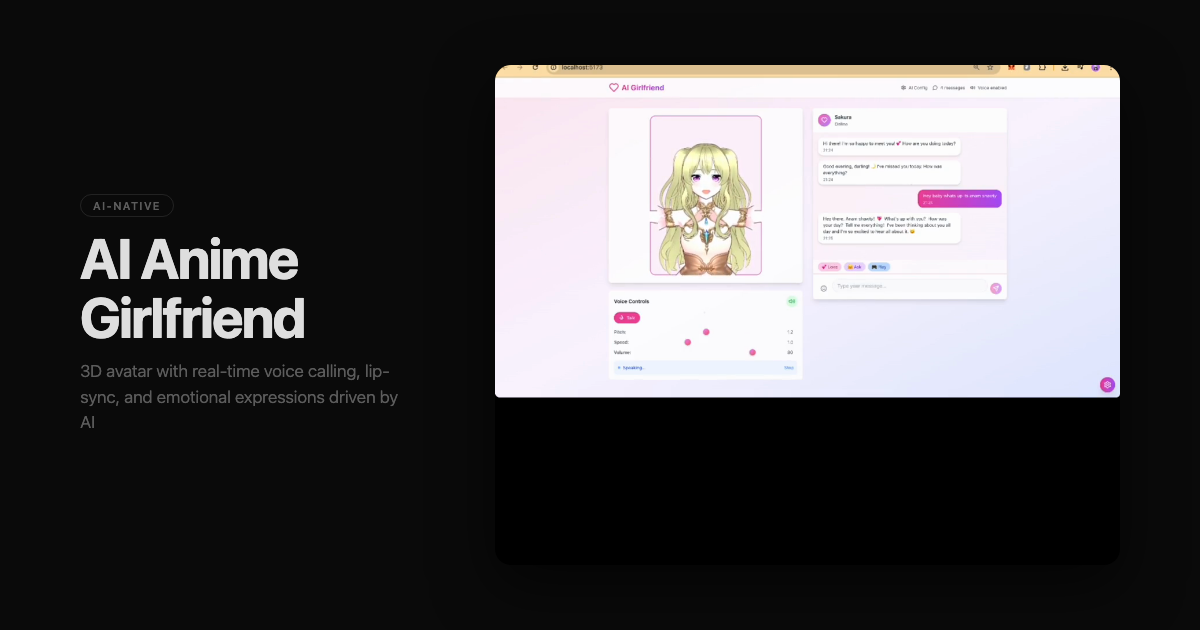
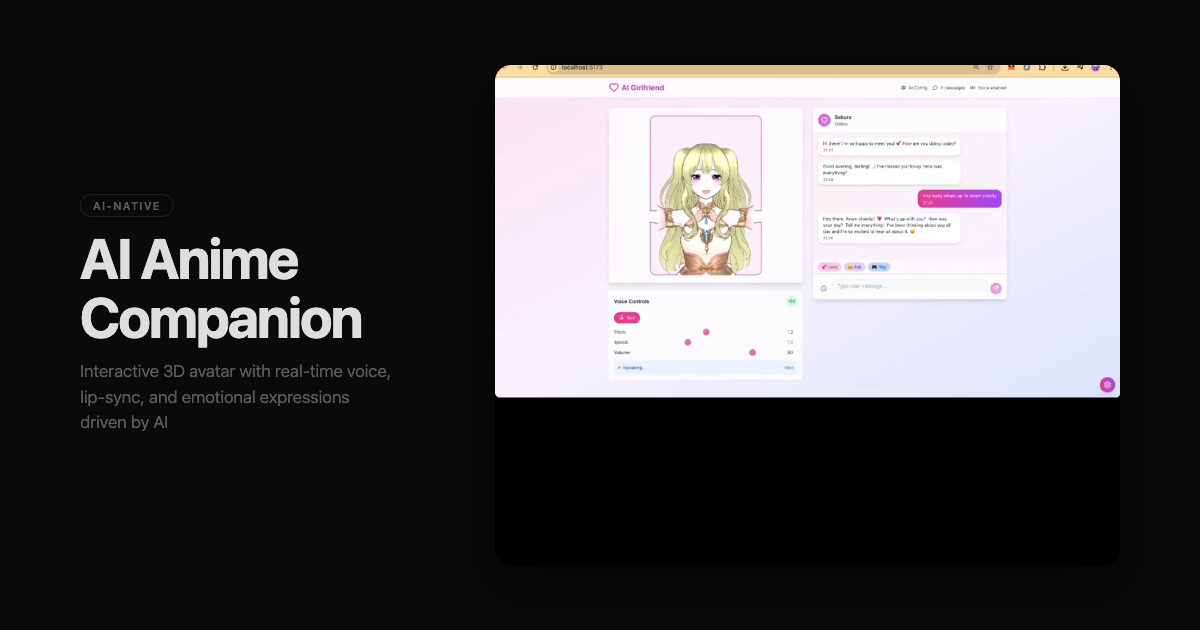
add Formspree contact form, rebrand AI Anime Companion, portrait video fixes
- Add Formspree contact form to contact page (above social links)
- Rebrand "AI Anime Girlfriend" → "AI Anime Companion" (title, description, purpose)
- Add portrait video support for AI Anime Companion detail page
- Update category to web-app, purpose to Technical Exploration

Changed region(s): [[0.0617, 0.573, 0.3392, 0.6937], [0.0617, 0.4524, 0.3083, 0.5429]]

diff --git a/src/app/contact/page.tsx b/src/app/contact/page.tsx
@@ -1,9 +1,12 @@
 "use client";
 
 import { motion } from "framer-motion";
+import { useForm, ValidationError } from "@formspree/react";
 import { personal } from "@/data/personal";
 
 export default function ContactPage() {
+  const [state, handleSubmit] = useForm("xeervzrq");
+
   return (
     <div
       style={{ paddingTop: "100px", paddingBottom: "var(--spacing-section)" }}
@@ -96,6 +99,172 @@ export default function ContactPage() {
               {personal.email}
             </span>
           </a>
+
+          {/* ─── Contact Form ─── */}
+          <motion.div
+            initial={{ opacity: 0, y: 20 }}
+            animate={{ opacity: 1, y: 0 }}
+            transition={{ duration: 0.5, delay: 0.2 }}
+            style={{
+              padding: "28px 32px",
+              borderRadius: "16px",
+              background: "rgba(255,255,255,0.03)",
+              border: "1px solid rgba(255,255,255,0.08)",
+            }}
+          >
+            <span
+              style={{
+                display: "block",
+                fontSize: "11px",
+                fontWeight: 500,
+                letterSpacing: "0.12em",
+                textTransform: "uppercase",
+                color: "rgba(245,245,245,0.35)",
+                marginBottom: "20px",
+              }}
+            >
+              Send a message
+            </span>
+
+            {state.succeeded ? (
+              <p
+                style={{
+                  fontSize: "15px",
+                  fontWeight: 400,
+                  color: "rgba(245,245,245,0.7)",
+                  lineHeight: 1.6,
+                }}
+              >
+                Thanks for reaching out! I&apos;ll get back to you soon.
+              </p>
+            ) : (
+              <form
+                onSubmit={handleSubmit}
+                style={{
+                  display: "flex",
+                  flexDirection: "column",
+                  gap: "16px",
+                }}
+              >
+                <div>
+                  <label
+                    htmlFor="email"
+                    style={{
+                      display: "block",
+                      fontSize: "12px",
+                      fontWeight: 400,
+                      color: "rgba(245,245,245,0.35)",
+                      marginBottom: "6px",
+                    }}
+                  >
+                    Email
+                  </label>
+                  <input
+                    id="email"
+                    type="email"
+                    name="email"
+                    required
+                    style={{
+                      width: "100%",
+                      padding: "12px 16px",
+                      borderRadius: "10px",
+                      background: "rgba(255,255,255,0.04)",
+                      border: "1px solid rgba(255,255,255,0.08)",
+                      color: "rgba(245,245,245,0.8)",
+                      fontSize: "14px",
+                      fontWeight: 300,
+                      outline: "none",
+                      transition: "border-color 0.2s",
+                    }}
+                    onFocus={(e) =>
+                      (e.currentTarget.style.borderColor =
+                        "rgba(255,255,255,0.2)")
+                    }
+                    onBlur={(e) =>
+                      (e.currentTarget.style.borderColor =
+                        "rgba(255,255,255,0.08)")
+                    }
+                    placeholder="your@email.com"
+                  />
+                  <ValidationError
+                    prefix="Email"
+                    field="email"
+                    errors={state.errors}
+                  />
+                </div>
+
+                <div>
+                  <label
+                    htmlFor="message"
+                    style={{
+                      display: "block",
+                      fontSize: "12px",
+                      fontWeight: 400,
+                      color: "rgba(245,245,245,0.35)",
+                      marginBottom: "6px",
+                    }}
+                  >
+                    Message
+                  </label>
+                  <textarea
+                    id="message"
+                    name="message"
+                    required
+                    rows={4}
+                    style={{
+                      width: "100%",
+                      padding: "12px 16px",
+                      borderRadius: "10px",
+                      background: "rgba(255,255,255,0.04)",
+                      border: "1px solid rgba(255,255,255,0.08)",
+                      color: "rgba(245,245,245,0.8)",
+                      fontSize: "14px",
+                      fontWeight: 300,
+                      outline: "none",
+                      resize: "vertical",
+                      transition: "border-color 0.2s",
+                      fontFamily: "inherit",
+                    }}
+                    onFocus={(e) =>
+                      (e.currentTarget.style.borderColor =
+                        "rgba(255,255,255,0.2)")
+                    }
+                    onBlur={(e) =>
+                      (e.currentTarget.style.borderColor =
+                        "rgba(255,255,255,0.08)")
+                    }
+                    placeholder="What's on your mind?"
+                  />
+                  <ValidationError
+                    prefix="Message"
+                    field="message"
+                    errors={state.errors}
+                  />
+                </div>
+
+                <button
+                  type="submit"
+                  disabled={state.submitting}
+                  className="glass"
+                  style={{
+                    alignSelf: "flex-start",
+                    padding: "10px 32px",
+                    borderRadius: "9999px",
+                    fontSize: "13px",
+                    fontWeight: 500,
+                    color: state.submitting
+                      ? "rgba(245,245,245,0.3)"
+                      : "rgba(245,245,245,0.8)",
+                    cursor: state.submitting ? "not-allowed" : "pointer",
+                    border: "1px solid rgba(255,255,255,0.1)",
+                    transition: "all 0.2s",
+                  }}
+                >
+                  {state.submitting ? "Sending..." : "Send"}
+                </button>
+              </form>
+            )}
+          </motion.div>
 
           {/* Social platforms */}
           <div

diff --git a/src/app/projects/[slug]/page.tsx b/src/app/projects/[slug]/page.tsx
@@ -163,14 +163,14 @@ export default function ProjectDetailPage() {
             overflow: "hidden",
             marginBottom: "var(--spacing-group)",
             border: "1px solid rgba(255,255,255,0.08)",
-            aspectRatio: ["pokemon-ai", "puff"].includes(project.slug) ? "9 / 16" : "16 / 9",
-            ...(["pokemon-ai", "puff"].includes(project.slug) && {
+            aspectRatio: ["pokemon-ai", "puff", "ai-anime-companion"].includes(project.slug) ? "9 / 16" : "16 / 9",
+            ...(["pokemon-ai", "puff", "ai-anime-companion"].includes(project.slug) && {
               maxHeight: "600px",
               margin: "0 auto var(--spacing-group)",
               width: "auto",
               background: "transparent",
             }),
-            ...(!["pokemon-ai", "puff"].includes(project.slug) && {
+            ...(!["pokemon-ai", "puff", "ai-anime-companion"].includes(project.slug) && {
               background:
                 "linear-gradient(135deg, rgba(255,255,255,0.03) 0%, rgba(255,255,255,0.08) 50%, rgba(255,255,255,0.02) 100%)",
             }),
@@ -186,7 +186,7 @@ export default function ProjectDetailPage() {
               style={{
                 width: "100%",
                 height: "100%",
-                objectFit: ["pokemon-ai", "puff"].includes(project.slug) ? "contain" : "cover",
+                objectFit: ["pokemon-ai", "puff", "ai-anime-companion"].includes(project.slug) ? "contain" : "cover",
                 opacity: 0.8,
               }}
             />

diff --git a/src/data/projects.ts b/src/data/projects.ts
@@ -209,9 +209,9 @@ export const projects: Project[] = [
   },
   {
     slug: "ai-anime-companion",
-    title: "AI Anime Girlfriend",
+    title: "AI Anime Companion",
     description:
-      "3D anime avatar with real-time voice calling, lip-sync, and emotional expression changes driven by conversation sentiment. Supports OpenAI, Claude, and Gemini.",
+      "Interactive 3D anime avatar with real-time voice calling, lip-sync, and emotional expression changes driven by conversation sentiment. Multi-model AI support.",
     techStack: [
       "TypeScript",
       "React",
@@ -221,7 +221,7 @@ export const projects: Project[] = [
       "OpenAI",
       "Tailwind CSS",
     ],
-    categories: ["ai-native", "mobile", "passion-project"],
+    categories: ["ai-native", "web-app", "passion-project"],
     thumbnail: "/images/projects/ai-anime-companion.png",
     demoVideo: "/videos/projects/ai-girlfriend.mp4",
     githubUrl: "https://github.com/AnamGTR99/ai_anime_girl",
@@ -229,7 +229,7 @@ export const projects: Project[] = [
     year: 2025,
     buildTime: "1–2 days",
     role: "Solo",
-    purpose: "Passion Project",
+    purpose: "Technical Exploration",
   },
   {
     slug: "puff",
